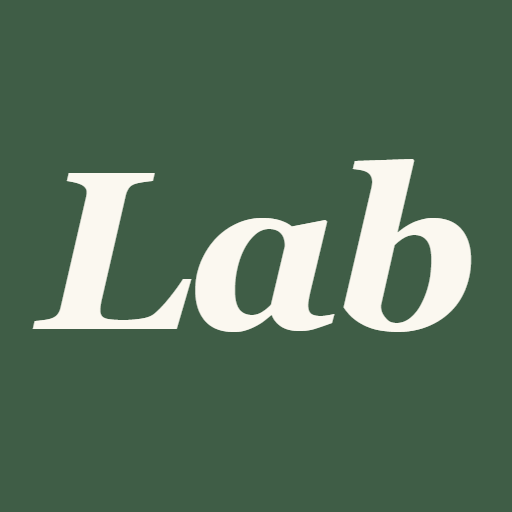
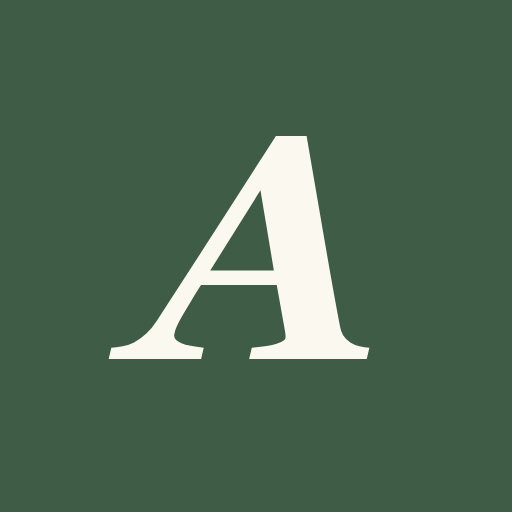
Swipe más sensible, adjuntar solo papers guardados al publicar y renombrar la app a Abstracta

Changed region(s): [[0.0625, 0.25, 0.9375, 0.7188]]

diff --git a/index.html b/index.html
@@ -4,12 +4,12 @@
 <meta charset="utf-8">
 <meta name="viewport" content="width=device-width, initial-scale=1, maximum-scale=1, user-scalable=no">
 <meta name="color-scheme" content="light">
-<title>Lab · Papers</title>
+<title>Abstracta</title>
 <link rel="manifest" href="/manifest.webmanifest">
 <meta name="theme-color" content="#3f5d46">
 <meta name="mobile-web-app-capable" content="yes">
 <meta name="apple-mobile-web-app-capable" content="yes">
-<meta name="apple-mobile-web-app-title" content="Lab">
+<meta name="apple-mobile-web-app-title" content="Abstracta">
 <link rel="apple-touch-icon" href="/icons/apple-touch-icon.png">
 <link rel="icon" type="image/png" href="/icons/icon-192.png">
 <link rel="preconnect" href="https://fonts.googleapis.com">
@@ -86,7 +86,7 @@ svg.icon{ display:block; }
 /* ---------- login / survey ---------- */
 .stage-content{ flex:1; display:flex; flex-direction:column; justify-content:center; padding:30px 30px 60px; }
 .stage-content.top{ justify-content:flex-start; padding-top:50px; }
-.login-mark{ font-family:'Lora',serif; font-style:italic; font-weight:600; font-size:40px; text-align:center; margin-bottom:6px;}
+.login-mark{ font-family:'Lora',serif; font-style:italic; font-weight:600; font-size:clamp(34px, 11vw, 46px); text-align:center; margin-bottom:6px;}
 .login-tag{ text-align:center; color:var(--muted); font-size:14px; margin-bottom:46px; line-height:1.5;}
 .btn-block{ width:100%; padding:14px; border-radius:10px; border:var(--border-w) solid var(--line); background:var(--paper); font-size:14.5px; font-weight:600; color:var(--ink); margin-bottom:12px; display:flex; align-items:center; justify-content:center; gap:9px;}
 .btn-block.primary{ background:var(--accent); border-color:var(--accent); color:#fff; }
@@ -285,7 +285,7 @@ input[type=range]{ width:100%; accent-color:var(--accent); }
   <!-- ===== ONBOARDING ===== -->
   <section id="stage-login" class="stage active">
     <div class="stage-content">
-      <div class="login-mark">Lab</div>
+      <div class="login-mark">Abstracta</div>
       <div class="login-tag">Descubre, guarda y comparte papers científicos con tu equipo.</div>
       <button class="btn-block primary" id="btn-create-account"></button>
     </div>
@@ -302,7 +302,7 @@ input[type=range]{ width:100%; accent-color:var(--accent); }
   <!-- ===== APP ===== -->
   <section id="screen-home" class="screen active">
     <div class="topbar">
-      <div class="wordmark">Lab</div>
+      <div class="wordmark">Abstracta</div>
       <div class="helptext">Desliza para pasar de paper · toca la tarjeta para leerla completa</div>
     </div>
     <div id="deck-wrap">
@@ -791,9 +791,12 @@ function renderDeck(){
 }
 function wireCardGestures(card){
   let startX=0, startY=0, dx=0, dragging=false, decided=false, horizontal=false;
-  const THRESHOLD = 70;
+  const THRESHOLD = 36;      // px para cambiar de paper
+  const FLICK_SPEED = 0.2;    // px/ms: un gesto rápido y corto también cuenta
+  const FLICK_MIN = 14;       // px mínimos para considerar el gesto rápido
+  let t0 = 0;
   card.addEventListener('pointerdown', e=>{
-    dragging=true; decided=false; horizontal=false; dx=0;
+    dragging=true; decided=false; horizontal=false; dx=0; t0 = performance.now();
     startX=e.clientX; startY=e.clientY;
     card.style.transition='none';
     card.classList.remove('idle-nudge');
@@ -803,8 +806,8 @@ function wireCardGestures(card){
   card.addEventListener('pointermove', e=>{
     if(!dragging) return;
     dx = e.clientX-startX; const dy = e.clientY-startY;
-    if(!decided && (Math.abs(dx)>6 || Math.abs(dy)>6)){
-      decided = true; horizontal = Math.abs(dx) > Math.abs(dy);
+    if(!decided && (Math.abs(dx)>4 || Math.abs(dy)>4)){
+      decided = true; horizontal = Math.abs(dx) > Math.abs(dy) * 0.8;
       if(horizontal){ try{ card.setPointerCapture(e.pointerId); }catch(err){} }
     }
     if(horizontal){
@@ -815,13 +818,15 @@ function wireCardGestures(card){
   function endDrag(){
     if(!dragging) return; dragging=false;
     const moved = dx;
+    const speed = Math.abs(moved) / Math.max(performance.now() - t0, 1);
+    const flick = Math.abs(moved) >= FLICK_MIN && speed >= FLICK_SPEED;
     dx=0;
     // Izquierda = siguiente paper, derecha = anterior (igual que las flechas)
-    if(horizontal && moved < -THRESHOLD && deckIndex < papers.length-1){
+    if(horizontal && (moved < -THRESHOLD || (flick && moved < 0)) && deckIndex < papers.length-1){
       card.style.transition='transform .2s ease-in';
       card.style.transform='translateX(-120%) rotate(-12deg)';
       setTimeout(()=>{ deckIndex++; renderDeck(); }, 180);
-    } else if(horizontal && moved > THRESHOLD && deckIndex > 0){
+    } else if(horizontal && (moved > THRESHOLD || (flick && moved > 0)) && deckIndex > 0){
       card.style.transition='transform .2s ease-in';
       card.style.transform='translateX(120%) rotate(12deg)';
       setTimeout(()=>{ deckIndex--; renderDeck(); }, 180);
@@ -901,7 +906,7 @@ function openShareSheet(paperId){
       <div class="ico">${icon('feed')}</div><div class="info"><div class="n">Comunidad (público)</div><div class="s">Lo verá todo Chile en la pestaña Social</div></div>
     </div>
     <div class="pick-row" id="share-inapp">
-      <div class="ico">${icon('chat')}</div><div class="info"><div class="n">Mensajería de Lab</div><div class="s">Enviar a personas o a la sala pública</div></div>
+      <div class="ico">${icon('chat')}</div><div class="info"><div class="n">Mensajería de Abstracta</div><div class="s">Enviar a personas o a la sala pública</div></div>
     </div>
     <a class="pick-row" href="${waUrl}" target="_blank" rel="noopener" id="share-wa">
       <div class="ico">${icon('whatsapp')}</div><div class="info"><div class="n">WhatsApp</div><div class="s">Enviar por WhatsApp</div></div>
@@ -921,7 +926,7 @@ function openSharePublicSheet(paperId){
     const body = `
       <div class="pinned-paper" style="margin:0 0 12px; cursor:default;"><h4>${esc(p.title.es)}</h4><div class="meta">${esc(p.authors)}</div></div>
       <textarea class="share-comment" id="public-comment" rows="3" maxlength="2000" placeholder="¿Qué te pareció? (opcional)"></textarea>`;
-    openSheet({ title:'Publicar en la comunidad', sub:'Lo verá cualquier persona que use Lab.', bodyHtml: body, footerText:'Publicar',
+    openSheet({ title:'Publicar en la comunidad', sub:'Lo verá cualquier persona que use Abstracta.', bodyHtml: body, footerText:'Publicar',
       onConfirm: async ()=>{
         const text = document.getElementById('public-comment').value.trim();
         try{
@@ -934,7 +939,7 @@ function openSharePublicSheet(paperId){
 }
 function openShareContactsSheet(paperId){
   requireIdentity(async ()=>{
-    openSheet({ title:'Enviar por mensajería de Lab', bodyHtml:'<div class="empty-state">Cargando personas…</div>' });
+    openSheet({ title:'Enviar por mensajería de Abstracta', bodyHtml:'<div class="empty-state">Cargando personas…</div>' });
     let users = [];
     try{ users = await searchUsers(''); }
     catch(e){ closeSheet(); toast('No se pudo cargar la lista de personas'); return; }
@@ -964,7 +969,7 @@ function openShareContactsSheet(paperId){
       <div id="share-contacts" style="margin-top:8px;">${listHtml('')}</div>
       <textarea class="share-comment" id="share-comment" rows="2" maxlength="1000" placeholder="Añade un comentario (opcional)"></textarea>`;
     openSheet({
-      title:'Enviar por mensajería de Lab', bodyHtml: body, footerText:'Enviar',
+      title:'Enviar por mensajería de Abstracta', bodyHtml: body, footerText:'Enviar',
       onConfirm: async ()=>{
         if(sel.size===0){ toast('Elige al menos un destinatario'); return; }
         const comment = document.getElementById('share-comment').value.trim();
@@ -1069,11 +1074,13 @@ function renderSocialFeed(){
 }
 document.getElementById('compose-open').addEventListener('click', ()=> requireIdentity(()=> openComposeSheet()));
 function openComposeSheet(){
-  const opts = '<option value="">Sin paper</option>' + papers.map(p=>'<option value="'+p.id+'">'+esc(p.title.es)+'</option>').join('');
+  const saved = papers.filter(p=>userState[p.id] && userState[p.id].folders.size>0);
+  const opts = '<option value="">Sin paper</option>' + saved.map(p=>'<option value="'+p.id+'">'+esc(p.title.es)+'</option>').join('');
+  const hint = saved.length ? '' : '<div style="font-size:12.5px; color:var(--muted); margin-top:6px;">Guarda papers en tu biblioteca (con el corazón) para poder adjuntarlos aquí.</div>';
   const body =
     '<textarea class="share-comment" id="compose-text" rows="4" maxlength="2000" placeholder="¿Qué quieres compartir con la comunidad?" style="margin-top:0;"></textarea>' +
-    '<select class="share-comment" id="compose-paper">'+opts+'</select>';
-  openSheet({ title:'Nueva publicación', sub:'La verá cualquier persona que use Lab.', bodyHtml: body, footerText:'Publicar',
+    '<select class="share-comment" id="compose-paper">'+opts+'</select>' + hint;
+  openSheet({ title:'Nueva publicación', sub:'La verá cualquier persona que use Abstracta.', bodyHtml: body, footerText:'Publicar',
     onConfirm: async ()=>{
       const text = document.getElementById('compose-text').value.trim();
       const paperId = document.getElementById('compose-paper').value || null;
@@ -1180,7 +1187,7 @@ function startChatPolling(){
   }, 30000);
 }
 function previewOf(last, kind){
-  if(!last) return kind==='general' ? 'Todos los que usan Lab en Chile. Escribe el primero.' : '';
+  if(!last) return kind==='general' ? 'Todos los que usan Abstracta en Chile. Escribe el primero.' : '';
   const mine = last.senderId === session.publicId;
   const who = mine ? 'Tú: ' : (kind==='general' ? esc(last.senderName)+': ' : '');
   if(last.text) return who + esc(last.text);
@@ -1231,7 +1238,7 @@ async function openNewConvoPicker(){
       </div>`).join('');
     if(rows) return rows;
     return q ? '<div class="empty-state">Nadie coincide con esa búsqueda.</div>'
-             : '<div class="empty-state">Todavía no hay más personas en Lab. Comparte el link de la app para que se sumen, o escribe en la sala pública.</div>';
+             : '<div class="empty-state">Todavía no hay más personas en Abstracta. Comparte el link de la app para que se sumen, o escribe en la sala pública.</div>';
   }
   function wire(){
     document.querySelectorAll('#new-convo-list .pick-row').forEach(row=>{
@@ -1406,7 +1413,7 @@ function renderProfile(){
 document.getElementById('row-name').addEventListener('click', ()=> openNameSheet());
 document.getElementById('row-code').addEventListener('click', async ()=>{
   if(!session.handle){ openNameSheet(); return; }
-  const msg = 'Escríbeme en Lab Papers: busca "' + session.handle + '"';
+  const msg = 'Escríbeme en Abstracta: busca "' + session.handle + '"';
   try{ await navigator.clipboard.writeText(session.handle); toast('Código copiado: ' + session.handle); }
   catch(e){ openSheet({ title:'Tu código', sub:'Pásaselo a tus amigos para que te encuentren.', bodyHtml:'<div style="font-size:22px; text-align:center; padding:18px 0; font-family:\'IBM Plex Mono\',monospace;">'+esc(session.handle)+'</div>' }); }
 });
@@ -1624,7 +1631,7 @@ document.getElementById('row-install').addEventListener('click', async ()=>{
     deferredInstall = null; refreshInstallRow();
     return;
   }
-  openSheet({ title:'Instalar Lab en tu dispositivo', bodyHtml:
+  openSheet({ title:'Instalar Abstracta en tu dispositivo', bodyHtml:
     '<div style="font-size:14px; line-height:1.6;">' +
     '<p style="margin:0 0 10px;"><b>iPhone / iPad (Safari):</b> toca el botón Compartir y elige «Añadir a pantalla de inicio».</p>' +
     '<p style="margin:0 0 10px;"><b>Android (Chrome / Firefox):</b> abre el menú ⋮ y elige «Instalar app» o «Añadir a pantalla de inicio».</p>' +

diff --git a/sw.js b/sw.js
@@ -1,4 +1,4 @@
-// Service worker de Lab · Papers: permite instalar la app y abrirla sin conexión.
+// Service worker de Abstracta: permite instalar la app y abrirla sin conexión.
 // Nunca cachea /api/ (los datos compartidos siempre vienen de la red).
 const CACHE = 'lab-papers-v1';
 const SHELL = ['/', '/index.html', '/manifest.webmanifest', '/icons/icon-192.png', '/icons/icon-512.png'];

diff --git a/README.md b/README.md
@@ -1,4 +1,4 @@
-# Lab · Papers
+# Abstracta
 
 Prototipo de app móvil para descubrir, guardar, leer y discutir papers científicos en comunidad.
 Todo corre sobre Cloudflare: hosting en Pages, API en Pages Functions y base de datos en D1.
